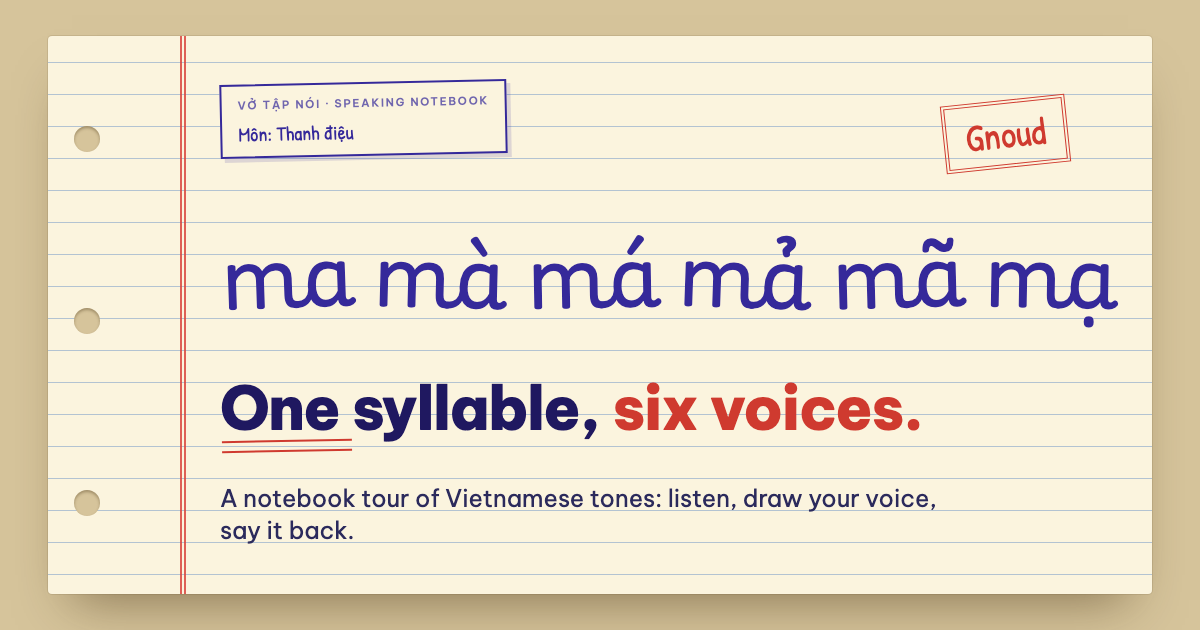
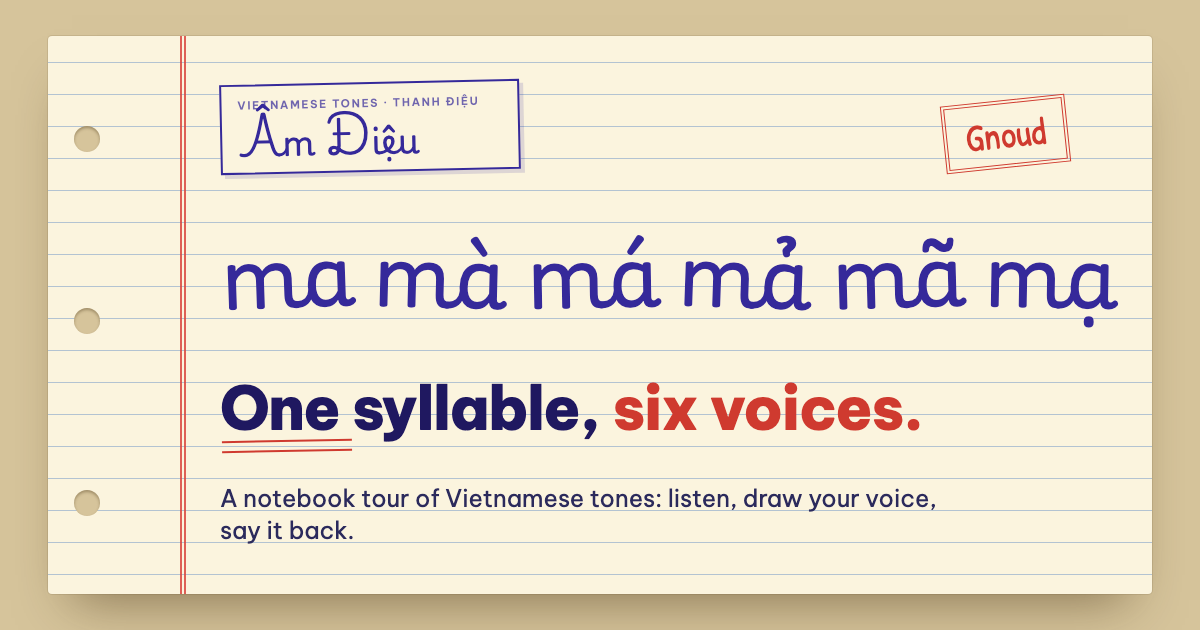
Rename the site to Âm Điệu — The Six Tones of Vietnamese
Use the new name for the page title, application name, Open Graph and Twitter
cards and the web manifest, and redraw the share image with it.

Changed region(s): [[0.185, 0.1206, 0.4625, 0.3016]]

diff --git a/app/layout.tsx b/app/layout.tsx
@@ -21,7 +21,7 @@ const playwrite = Playwrite_VN({
   variable: "--font-playwrite",
 });
 
-const TITLE = "ma mà má mả mã mạ — one syllable, six voices";
+const TITLE = "Âm Điệu — The Six Tones of Vietnamese";
 const DESCRIPTION =
   "One syllable, six tones, six different words. A notebook-page tour of Vietnamese tones: listen, draw your voice, say it back.";
 
@@ -36,7 +36,7 @@ export const metadata: Metadata = {
   metadataBase: new URL(siteUrl),
   title: TITLE,
   description: DESCRIPTION,
-  applicationName: "Vở tập nói",
+  applicationName: "Âm Điệu",
   authors: [{ name: "Gnoud" }],
   creator: "Gnoud",
   category: "education",
@@ -51,7 +51,7 @@ export const metadata: Metadata = {
   ],
   openGraph: {
     type: "website",
-    siteName: "Vở tập nói",
+    siteName: "Âm Điệu",
     title: TITLE,
     description: DESCRIPTION,
     locale: "en_US",

diff --git a/app/manifest.ts b/app/manifest.ts
@@ -2,8 +2,8 @@ import type { MetadataRoute } from "next";
 
 export default function manifest(): MetadataRoute.Manifest {
   return {
-    name: "ma mà má mả mã mạ — one syllable, six voices",
-    short_name: "Vở tập nói",
+    name: "Âm Điệu — The Six Tones of Vietnamese",
+    short_name: "Âm Điệu",
     description:
       "One syllable, six tones, six different words. A notebook-page tour of Vietnamese tones: listen, draw your voice, say it back.",
     start_url: "/",
